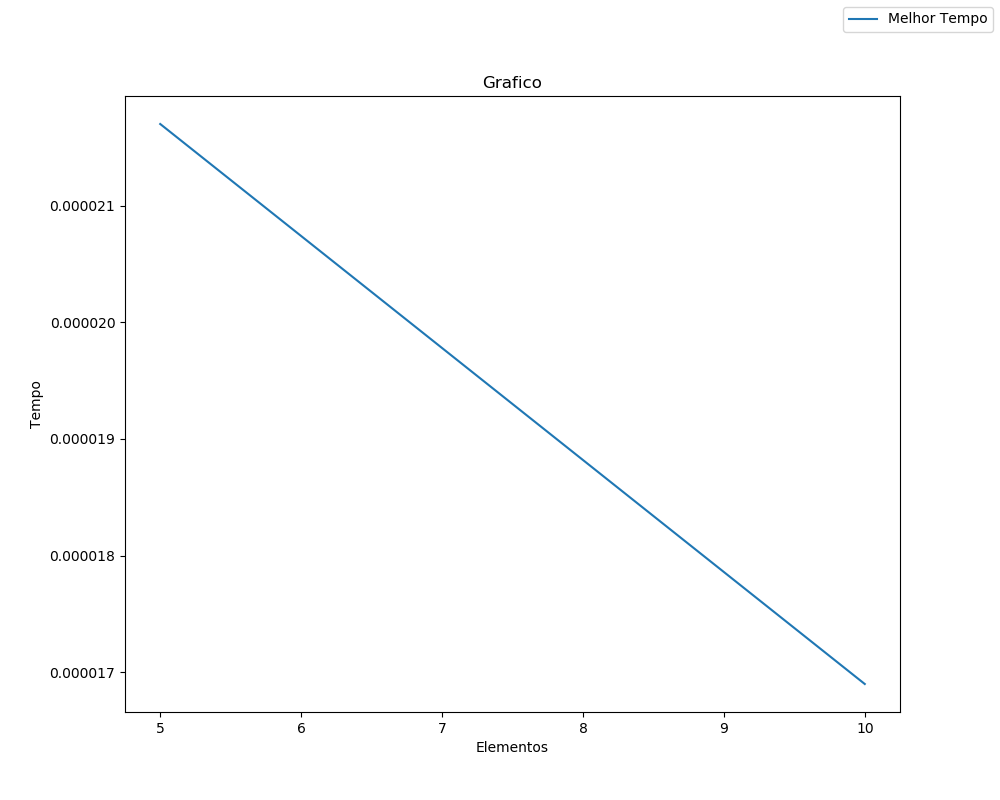
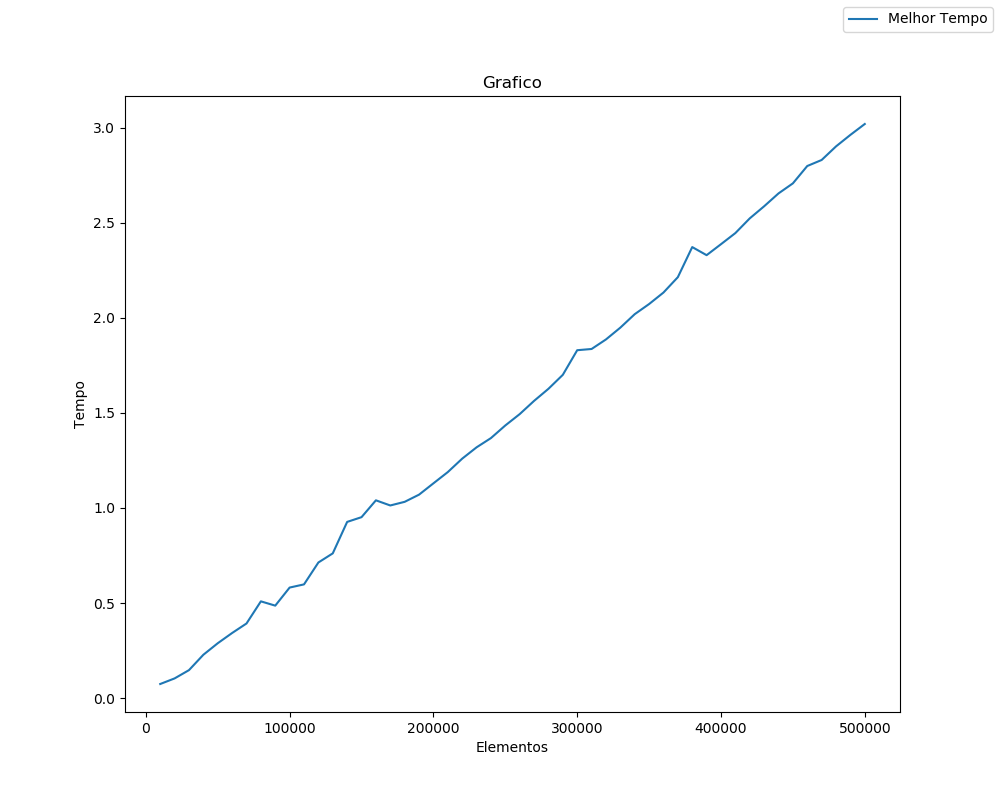
Melhorado o MergeSort
MergeSort é agora mais eficiente, não retirando elementos da parte esquerda ou direita da lista, mas simplesmente iterando por ambas. Adicionalmente, a contagem de tempo e swaps para o mesmo método foi corrigida.

diff --git a/SortingAlgorithms(Python)/mergeSort.py b/SortingAlgorithms(Python)/mergeSort.py
@@ -4,23 +4,44 @@ import variables
 def merge(v, esq, dir):
     aux = []
     swapsAux = 0
-    while len(esq) is not 0 and len(dir) is not 0:
-        if esq[0] < dir[0]:
-            aux.append(esq.pop(0))
+    i = j = 0
+    while i < len(esq) and j < len(dir):
+        if esq[i] < dir[j]:
+            aux.append(esq[i])
             swapsAux += 1
+            i += 1
         else:
-            aux.append(dir.pop(0))
+            aux.append(dir[j])
             swapsAux += 1
-    while len(esq) is not 0:
-        aux.append(esq.pop(0))
+            j += 1
+    while i < len(esq):
+        aux.append(esq[i])
         swapsAux += 1
-    while len(dir) is not 0:
-        aux.append(dir.pop(0))
+        i += 1
+    while j < len(dir):
+        aux.append(dir[j])
         swapsAux += 1
+        j += 1
     v = aux
     variables.swaps += swapsAux
-    print(variables.swaps)
     return v
+"""while len(esq) is not 0 and len(dir) is not 0:
+    if esq[0] < dir[0]:
+        aux.append(esq.pop(0))
+        swapsAux += 1
+    else:
+        aux.append(dir.pop(0))
+        swapsAux += 1
+while len(esq) is not 0:
+    aux.append(esq.pop(0))
+    swapsAux += 1
+while len(dir) is not 0:
+    aux.append(dir.pop(0))
+    swapsAux += 1
+v = aux
+variables.swaps += swapsAux
+print(variables.swaps)
+return v"""
 
 
 def mergeSort(v):
@@ -32,7 +53,6 @@ def mergeSort(v):
     esq = mergeSort(esq)
     dir = mergeSort(dir)
     v = merge(v, esq, dir)
-    print(variables.swaps)
     return v
 
 

diff --git a/SortingAlgorithms(Python)/testMerge.py b/SortingAlgorithms(Python)/testMerge.py
@@ -9,20 +9,22 @@ from mergeSort import *
 #print(vect)
 
 setup = "from helperFunctions import printIfSorted\n" \
-        "import mergeSort"
-vect = geraLista(10)
+        "from mergeSort import mergeSort"
+vect = geraListaReversa(500000)
 swaps = []
 tempo = []
 passo = []
-for x in range(5, len(vect)+1, 5):
-    tempo.append(timeit.timeit("aux=[{0}]\naux=mergeSort.mergeSort(aux)\nprintIfSorted(aux)".format(vect[0:x]), setup, number=1))
+#vect = mergeSort(vect)
+#printIfSorted(vect)
+for x in range(10000, len(vect)+1, 10000):
+    #tempo.append(timeit.timeit("aux=[{0}]\naux=mergeSort.mergeSort(aux)\nprintIfSorted(aux)".format(vect[0:x]), setup, number=1))
+    tempo.append(timeit.timeit("mergeSort({})".format(vect[0:x]), setup, number=1))
     passo.append(x)
     swaps.append(variables.swaps)
     print("Elementos: {}".format(x))
     print("Swaps: {}".format(variables.swaps))
     print("Tempo: {}\n".format(tempo.copy().pop()))
-
-
+    variables.swaps = 0
 
 desenhaGrafico(passo, tempo, xl="Elementos", yl="Tempo")
 desenhaGrafico(passo, swaps, xl="Elementos", yl="Swaps")
